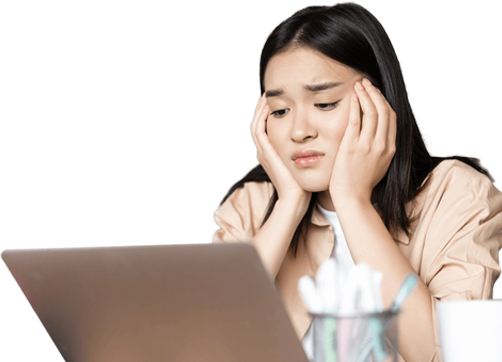
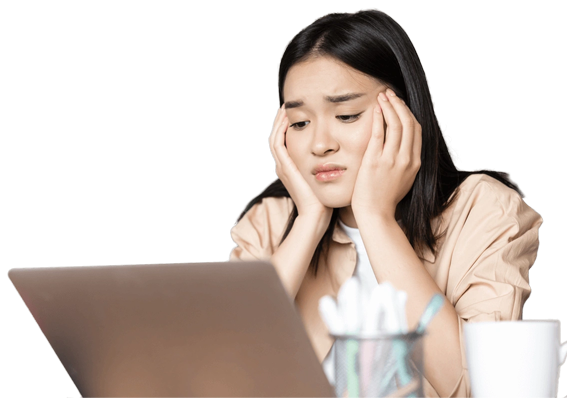
img >>> Image

diff --git a/src/Sub/Sub.jsx b/src/Sub/Sub.jsx
@@ -1,5 +1,6 @@
 'use client';
 import React from 'react';
+import Image from 'next/image';
 import { useRef } from 'react';
 import { useInView, motion } from 'framer-motion';
 //CSS導入
@@ -134,55 +135,53 @@ export default function Sub() {
             animate={inViews[`inView0${index + 1}`] ? 'visible' : 'hidden'}
             transition={{ delay: index * 0.5 }}
           >
-            <Element>
-              <div>
-                <motion.div
-                  ref={refs[`ref0${index + 1}`]}
-                  variants={titleVariants}
-                  initial="hidden"
-                  animate={
-                    inViews[`inView0${index + 1}`] ? 'visible' : 'hidden'
-                  }
-                  transition={{ delay: index * 0.5, duration: 0.5 }}
-                >
-                  <ul className="title w-full p-4 py-8 lg:p-[4%]">
-                    <li className="num-grid flex justify-center items-center">
-                      <img
-                        src={obj.imgNum}
-                        alt={obj.imgNumAlt}
-                        className="h-[70%]"
-                      />
-                    </li>
-                    <li className="title-grid w-full flex justify-center items-center">
-                      <h3
-                        dangerouslySetInnerHTML={{ __html: obj.title }}
-                        className=" leading-h4 md:leading-h3 lg:leading-h2 
+            <div>
+              <motion.div
+                ref={refs[`ref0${index + 1}`]}
+                variants={titleVariants}
+                initial="hidden"
+                animate={inViews[`inView0${index + 1}`] ? 'visible' : 'hidden'}
+                transition={{ delay: index * 0.5, duration: 0.5 }}
+              >
+                <ul className="title w-full p-4 py-8 lg:p-[4%]">
+                  <li className="num-grid flex justify-center items-center">
+                    <Image
+                      width={100}
+                      height={100}
+                      src={obj.imgNum}
+                      alt={obj.imgNumAlt}
+                      className="h-[70%]"
+                    />
+                  </li>
+                  <li className="title-grid w-full flex justify-center items-center">
+                    <h3
+                      dangerouslySetInnerHTML={{ __html: obj.title }}
+                      className=" leading-h4 md:leading-h3 lg:leading-h2 
                         text-h4 md:text-h3 lg:text-h3 
                          text-center md:text-left lg:text-left font-bold 
                         py-6 px-4 md:px-10 md:py-0 lg:p-0 lg: text-[--ourly-theme] mt-[-32px]
                         "
-                      ></h3>
-                    </li>
-                    <li className="pic-grid flex justify-center items-center">
-                      <img
-                        src={obj.imgContent}
-                        alt={obj.imgimgContentAlt}
-                        className="w-[90%] duration-500"
-                      />
-                    </li>
-                    <li className="text-grid lg:pt-16">
-                      <p
-                        dangerouslySetInnerHTML={{ __html: obj.text }}
-                        className=" text-text 
+                    ></h3>
+                  </li>
+                  <li className="pic-grid flex justify-center items-center">
+                    <img
+                      src={obj.imgContent}
+                      alt={obj.imgimgContentAlt}
+                      className="w-[90%] duration-500"
+                    />
+                  </li>
+                  <li className="text-grid lg:pt-16">
+                    <p
+                      dangerouslySetInnerHTML={{ __html: obj.text }}
+                      className=" text-text 
                         md:text-[18px] 
                         leading-text md:leading-h3 px-[4%] 
                         mt-[-24px]"
-                      ></p>
-                    </li>
-                  </ul>
-                </motion.div>
-              </div>
-            </Element>
+                    ></p>
+                  </li>
+                </ul>
+              </motion.div>
+            </div>
           </motion.div>
         ))}
       </div>
@@ -203,7 +202,7 @@ export default function Sub() {
             animate={inViews[`inView0${index + 4}`] ? 'visible' : 'hidden'} // Dynamic inView based on index
             transition={{ delay: 0.5, duration: 0.5 }}
           >
-            <img src={item.img} alt={item.alt} />
+            <Image width={400} height={400} src={item.img} alt={item.alt} />
             <p
               className="text-[20px] lg:text-h2 w-[64%] lg:w-full leading-h4
               font-bold"

diff --git a/src/Form/Form.jsx b/src/Form/Form.jsx
@@ -99,8 +99,8 @@ export default function Form() {
             <label className="flex flex-col w-full lg:w-1/2 mb-4">
               姓
               <span
-                className="absolute text-[10px] lg:text-[10px] 
-                w-fit right-0 lg:left-[10%] top-[5%] 
+                className="absolute text-[10px] lg:text-[10px]
+                w-fit right-0 lg:left-[10%] xl:left-[6%] top-[5%] 
             border border-1 border-ourly-theme text-[--ourly-theme] px-1"
               >
                 必須
@@ -111,7 +111,7 @@ export default function Form() {
               名
               <span
                 className="absolute text-[10px] lg:text-[10px] 
-                w-fit right-0 lg:left-[10%] top-[5%] 
+                w-fit right-0 lg:left-[10%] xl:left-[6%] top-[5%] 
             border border-1 border-ourly-theme text-[--ourly-theme] px-1"
               >
                 必須
@@ -125,7 +125,7 @@ export default function Form() {
               会社名
               <span
                 className="absolute text-[10px] lg:text-[10px] 
-                w-fit right-0 lg:left-[24%] top-[5%] 
+                w-fit right-0 lg:left-[24%] xl:left-[12%] top-[5%] 
             border border-1 border-ourly-theme text-[--ourly-theme] px-1"
               >
                 必須
@@ -141,7 +141,7 @@ export default function Form() {
               部属名
               <span
                 className="absolute text-[10px] lg:text-[10px] 
-                w-fit right-0 lg:left-[24%] top-[5%] 
+                w-fit right-0 lg:left-[24%] xl:left-[12%] top-[5%] 
             border border-1 border-ourly-theme text-[--ourly-theme] px-1"
               >
                 必須
@@ -158,7 +158,7 @@ export default function Form() {
             E-mail
             <span
               className="absolute text-[10px] lg:text-[10px] 
-                w-fit right-0 lg:left-[12%] top-[5%] 
+                w-fit right-0 lg:left-[12%] xl:left-[6%] top-[5%] 
             border border-1 border-ourly-theme text-[--ourly-theme] px-1"
             >
               必須
@@ -177,7 +177,7 @@ export default function Form() {
             電話番号
             <span
               className="absolute text-[10px] lg:text-[10px] 
-                w-fit right-0 lg:left-[14%] top-[5%] 
+                w-fit right-0 lg:left-[14%] xl:left-[7%] top-[5%] 
             border border-1 border-ourly-theme text-[--ourly-theme] px-1"
             >
               必須

diff --git a/src/Function/Function.jsx b/src/Function/Function.jsx
@@ -1,5 +1,6 @@
 'use client';
 import { React, useEffect, useState } from 'react';
+import Image from 'next/image';
 import Hexagon from './component/Hexagon';
 //CSS導入
 import './Function.css';
@@ -238,21 +239,27 @@ export default function Function() {
                 {data.slice(5).map(Hexagon)} {/* Render hexagon 06 and 07 */}
               </div>
             </div>
-            <img
+            <Image
+              width={400}
+              height={400}
               src="/img/20Yman-05-bgN.webp"
               alt="young happy man pointing the picture"
               className="move01"
               style={{ transition: 'none' }}
             />
-            <img
-              src="img/20Yman-05-bgN-2.webp"
+            <Image
+              width={400}
+              height={400}
+              src="/img/20Yman-05-bgN-2.webp"
               alt="young happy man pointing the picture"
               className="move02"
               style={{ transition: 'none' }}
             />
           </>
         ) : (
-          <img
+          <Image
+            width={500}
+            height={500}
             src="/img/function.png"
             alt="function introduction picture"
             className="absolute top-1/2 translate-y-[-50%] z-[2] w-full md:w-[80%]"

diff --git a/src/Main/Main.jsx b/src/Main/Main.jsx
@@ -1,5 +1,6 @@
 'use client';
 import React from 'react';
+import Image from 'next/image';
 import { useRef } from 'react';
 import { useInView, motion } from 'framer-motion';
 //CSS導入
@@ -118,7 +119,13 @@ export default function Main() {
                 {personal.content}
               </span>
             </h2>
-            <img src={personal.imgAnnoying} alt={personal.annoyingImgInfo} />
+            <Image
+              width={800}
+              height={800}
+              quality={90}
+              src={personal.imgAnnoying}
+              alt={personal.annoyingImgInfo}
+            />
 
             <SpeechBubble
               text={personal.article01}
@@ -148,7 +155,12 @@ export default function Main() {
               <br />
               {personal.solvedSubtitle}
             </h2>
-            <img src={personal.imgSolved} alt={personal.solvedImgInfo} />
+            <Image
+              width={500}
+              height={500}
+              src={personal.imgSolved}
+              alt={personal.solvedImgInfo}
+            />
             <p
               dangerouslySetInnerHTML={{ __html: personal.solvedContent }}
               className="w-[90%] lg:w-[40%] xl:w-[64%]

diff --git a/src/Slider/Slider.jsx b/src/Slider/Slider.jsx
@@ -1,5 +1,6 @@
 'use client';
 import React, { useState, useRef, useEffect } from 'react';
+import Image from 'next/image';
 //Swiper導入
 import { Swiper, SwiperSlide } from 'swiper/react';
 import { Autoplay, Pagination, Navigation } from 'swiper/modules';
@@ -159,7 +160,7 @@ export default function Slider() {
             ))} */}
             <p
               className="text-[18px] md:text-[20px] lg:text-h4 
-              leading-h4 lg:leading-h3"
+              leading-h4 lg:leading-h4"
               dangerouslySetInnerHTML={{ __html: obj.ourlytext }}
             ></p>
             <ScrollLink
@@ -184,7 +185,13 @@ export default function Slider() {
           </div>
           <span className={obj.triangleup}></span>
           <span className={obj.triangledown}></span>
-          <img src={obj.imgsrc} alt={obj.imgalt} className="w-full h-screen " />
+          <Image
+            width={1500}
+            height={1200}
+            src={obj.imgsrc}
+            alt={obj.imgalt}
+            className="w-full h-screen "
+          />
         </SwiperSlide>
       ))}
     </Swiper>

diff --git a/src/Footer/Footer.jsx b/src/Footer/Footer.jsx
@@ -1,5 +1,6 @@
 'use client';
 import { React, useEffect } from 'react';
+import Image from 'next/image';
 //CSS導入
 import './Footer.css';
 import '@/app/globals.css';
@@ -59,10 +60,12 @@ export default function Footer() {
       <div className="purplesection relative bg-[--purple-light] text-white pt-16 px-8">
         <ul>
           <li className="pb-8">
-            <img
+            <Image
+              width={300}
+              height={200}
               src="/img/ourly_logo_W.webp"
               alt="white ourly"
-              className="w-1/2 lg:w-[24%] md:w-1/3"
+              className="w-1/2 lg:w-[24%] xl:w-[20%] md:w-1/3 pb-8"
             />
           </li>
           <li className="link text-text py-0 lg:py-0  cursor-pointer">

diff --git a/src/Compare/Compare.jsx b/src/Compare/Compare.jsx
@@ -1,5 +1,6 @@
 'use client';
 import React from 'react';
+import Image from 'next/image';
 import { useRef, useState, useEffect } from 'react';
 //CSS導入
 import './Compare.css';
@@ -44,7 +45,9 @@ export default function Compare() {
           社内報の比較
         </h3>
         {rendercompare ? (
-          <img
+          <Image
+            width={900}
+            height={900}
             src="/img/compare.webp"
             alt="comparison about ourly, paper company news and other web company news tools"
             className="relative lg:w-[50%]  z-2 duration-500 

diff --git a/src/Question/Question.jsx b/src/Question/Question.jsx
@@ -122,7 +122,7 @@ export default function Question() {
               <li
                 key={index}
                 className="ques-section bg-[--base-color] h-[400px]
-              flex flex-col justify-center items-left relative duration-500"
+              flex flex-col justify-center items-left relative duration-50 overflow-hidden"
               >
                 <li
                   className="ques-title absolute top-1/2 left-1/2 translate-x-[-50%] translate-y-[-50%] w-[90%]

diff --git a/src/Header/Header.jsx b/src/Header/Header.jsx
@@ -1,5 +1,6 @@
 'use client';
 import React from 'react';
+import Image from 'next/image';
 //CSS導入
 import './Header.css';
 import '@/app/globals.css';
@@ -70,7 +71,9 @@ export default function Header() {
       px-4 lg:px-16 mt-4
     w-screen h-[100px]"
     >
-      <img
+      <Image
+        width={300}
+        height={100}
         src="/img/ourly_logo.webp"
         alt="ourly logo"
         className="cursor-pointer w-1/2 lg:w-1/5 h-auto"

diff --git a/src/Main/Main.css b/src/Main/Main.css
@@ -51,10 +51,10 @@
   background-image: url(/img/report.webp);
   background-repeat: no-repeat;
   background-size: 40%;
-  background-position: 90% 90%;
+  background-position: 90% 100%;
 }
 .solvedman02 img {
-  width: 40%;
+  width: 35%;
   height: auto;
   position: absolute;
   bottom: 0px;
@@ -94,7 +94,7 @@
   overflow: hidden;
 }
 .annoyingwoman img {
-  width: 50%;
+  width: 48%;
   height: auto;
   position: absolute;
   bottom: 0px;

diff --git a/src/Guide/Guide.jsx b/src/Guide/Guide.jsx
@@ -147,7 +147,7 @@ export default function Guide() {
 
   return (
     <div
-      className={`back fixed top-0 left-0 w-full h-screen z-[60] bg-white  ${
+      className={`back fixed top-0 left-0 w-full h-screen z-[60] bg-white hidden ${
         isOpen
           ? 'translate-y-[-200vh] opacity-0 transition-all duration-[2000ms] ease-out'
           : ''

diff --git a/src/Question/Question.css b/src/Question/Question.css
@@ -44,6 +44,7 @@
   font-size: 16px;
   top: 20%;
   transition: all 0.5s;
+  line-height: 30px;
   color: white;
 }
 
@@ -56,6 +57,7 @@
   font-weight: bold;
   transition: all 0.5s;
   color: white;
+  line-height: 40px;
 }
 
 .ques-ans {
